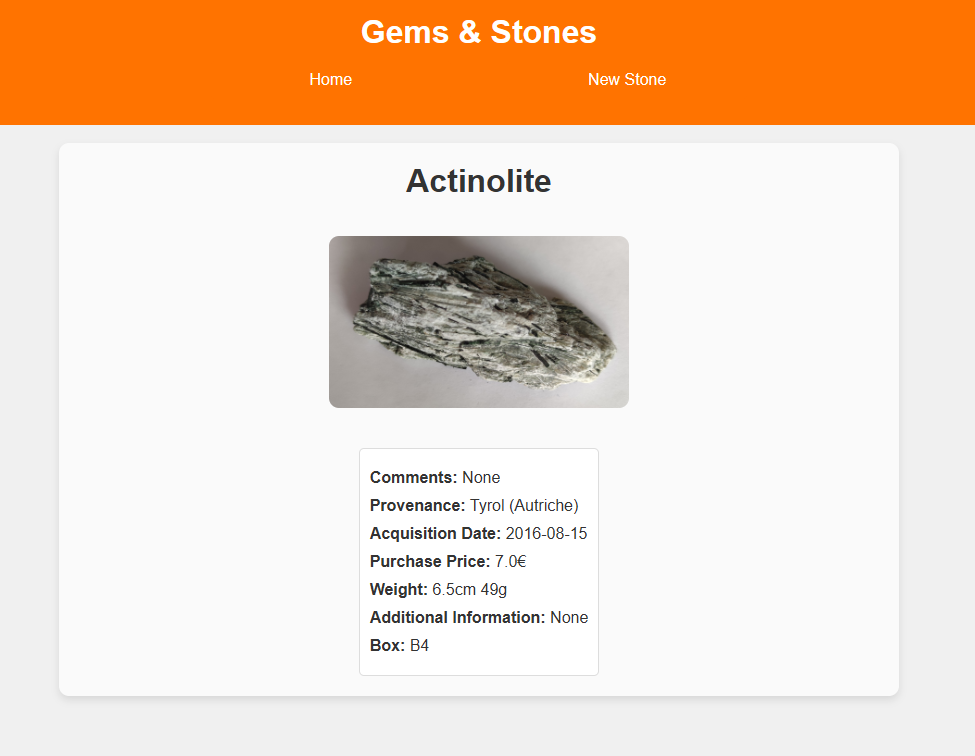
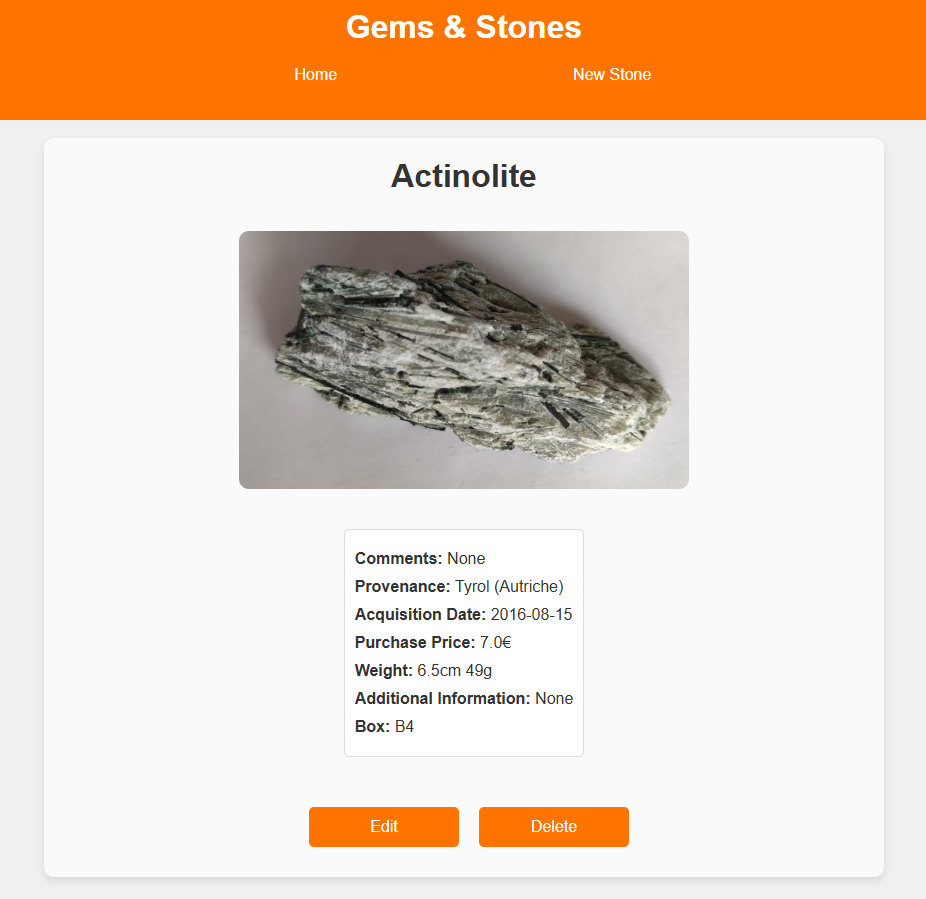
README update

Changed region(s): [[0.0, 0.0, 1.0, 0.5476], [0.0907, 0.6085, 0.9071, 0.9431]]

diff --git a/README.md b/README.md
@@ -1,4 +1,4 @@
-# Gems & Stones
+# <img src="./images/Logo.png" alt="Logo" width="32" height="32"/> Gems & Stones
 
 ### Created by: Victor Wybon
 
@@ -14,6 +14,7 @@ While the repository contains only a few sample images (due to storage considera
 
 - **Stone Listing**: Displays a full list of all gems, stones, and fossils in the collection.
 - **Stone Details**: Each item includes detailed information like comments, origin, acquisition date, purchase price, weight, additional info, and in which storage box the stone/gem is.
+- **Stone Editing**: Editing existing stone/gem or delete them from the collection.
 - **Search Functionality**: Allows users to search for specific stones by name.
 - **Add New Stone**: Users can add new stones to the collection by filling out a form with relevant information.
 
@@ -33,5 +34,8 @@ The app follows a standard Flask application structure:
 ### Stone Detail Page
 ![Stone Detail Page](images/details.png)
 
-### Form
-![Form](images/form.png)
+### New Stone Form
+![New Stone Form](images/stone_form.png)
+
+### Editing Stone Form
+![Editing Stone Form](images/stone_edit.png)
